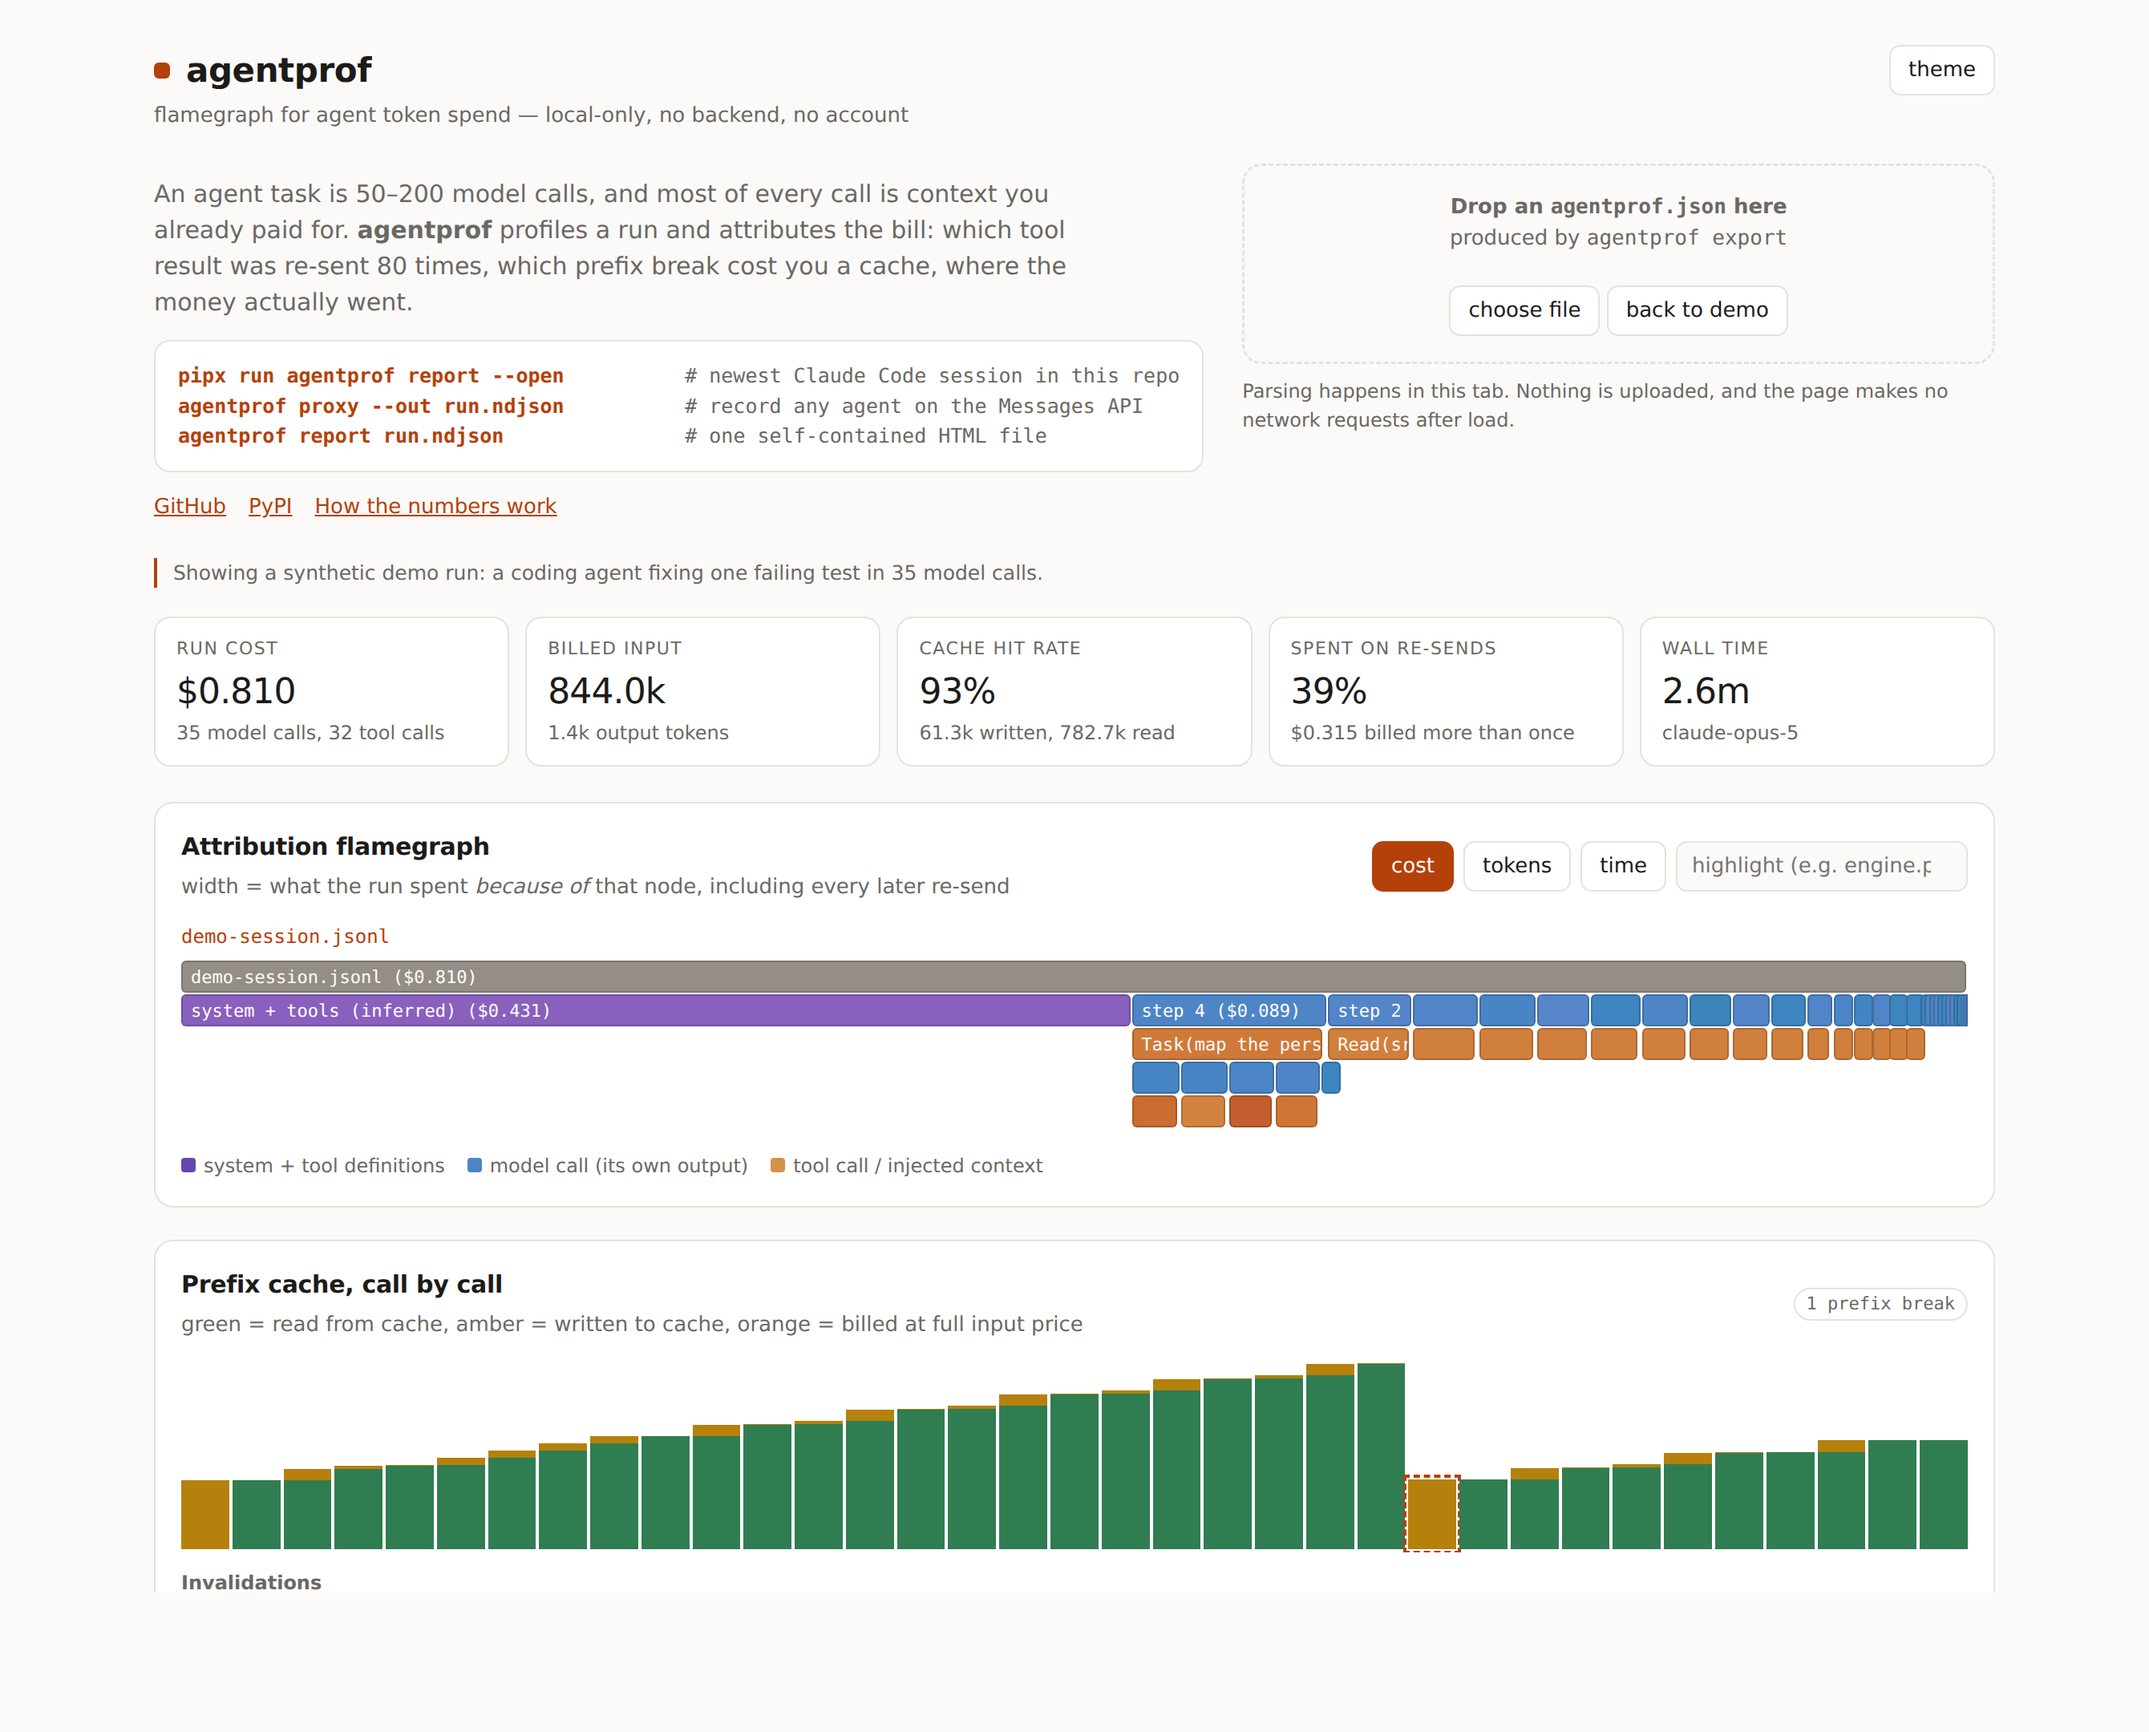
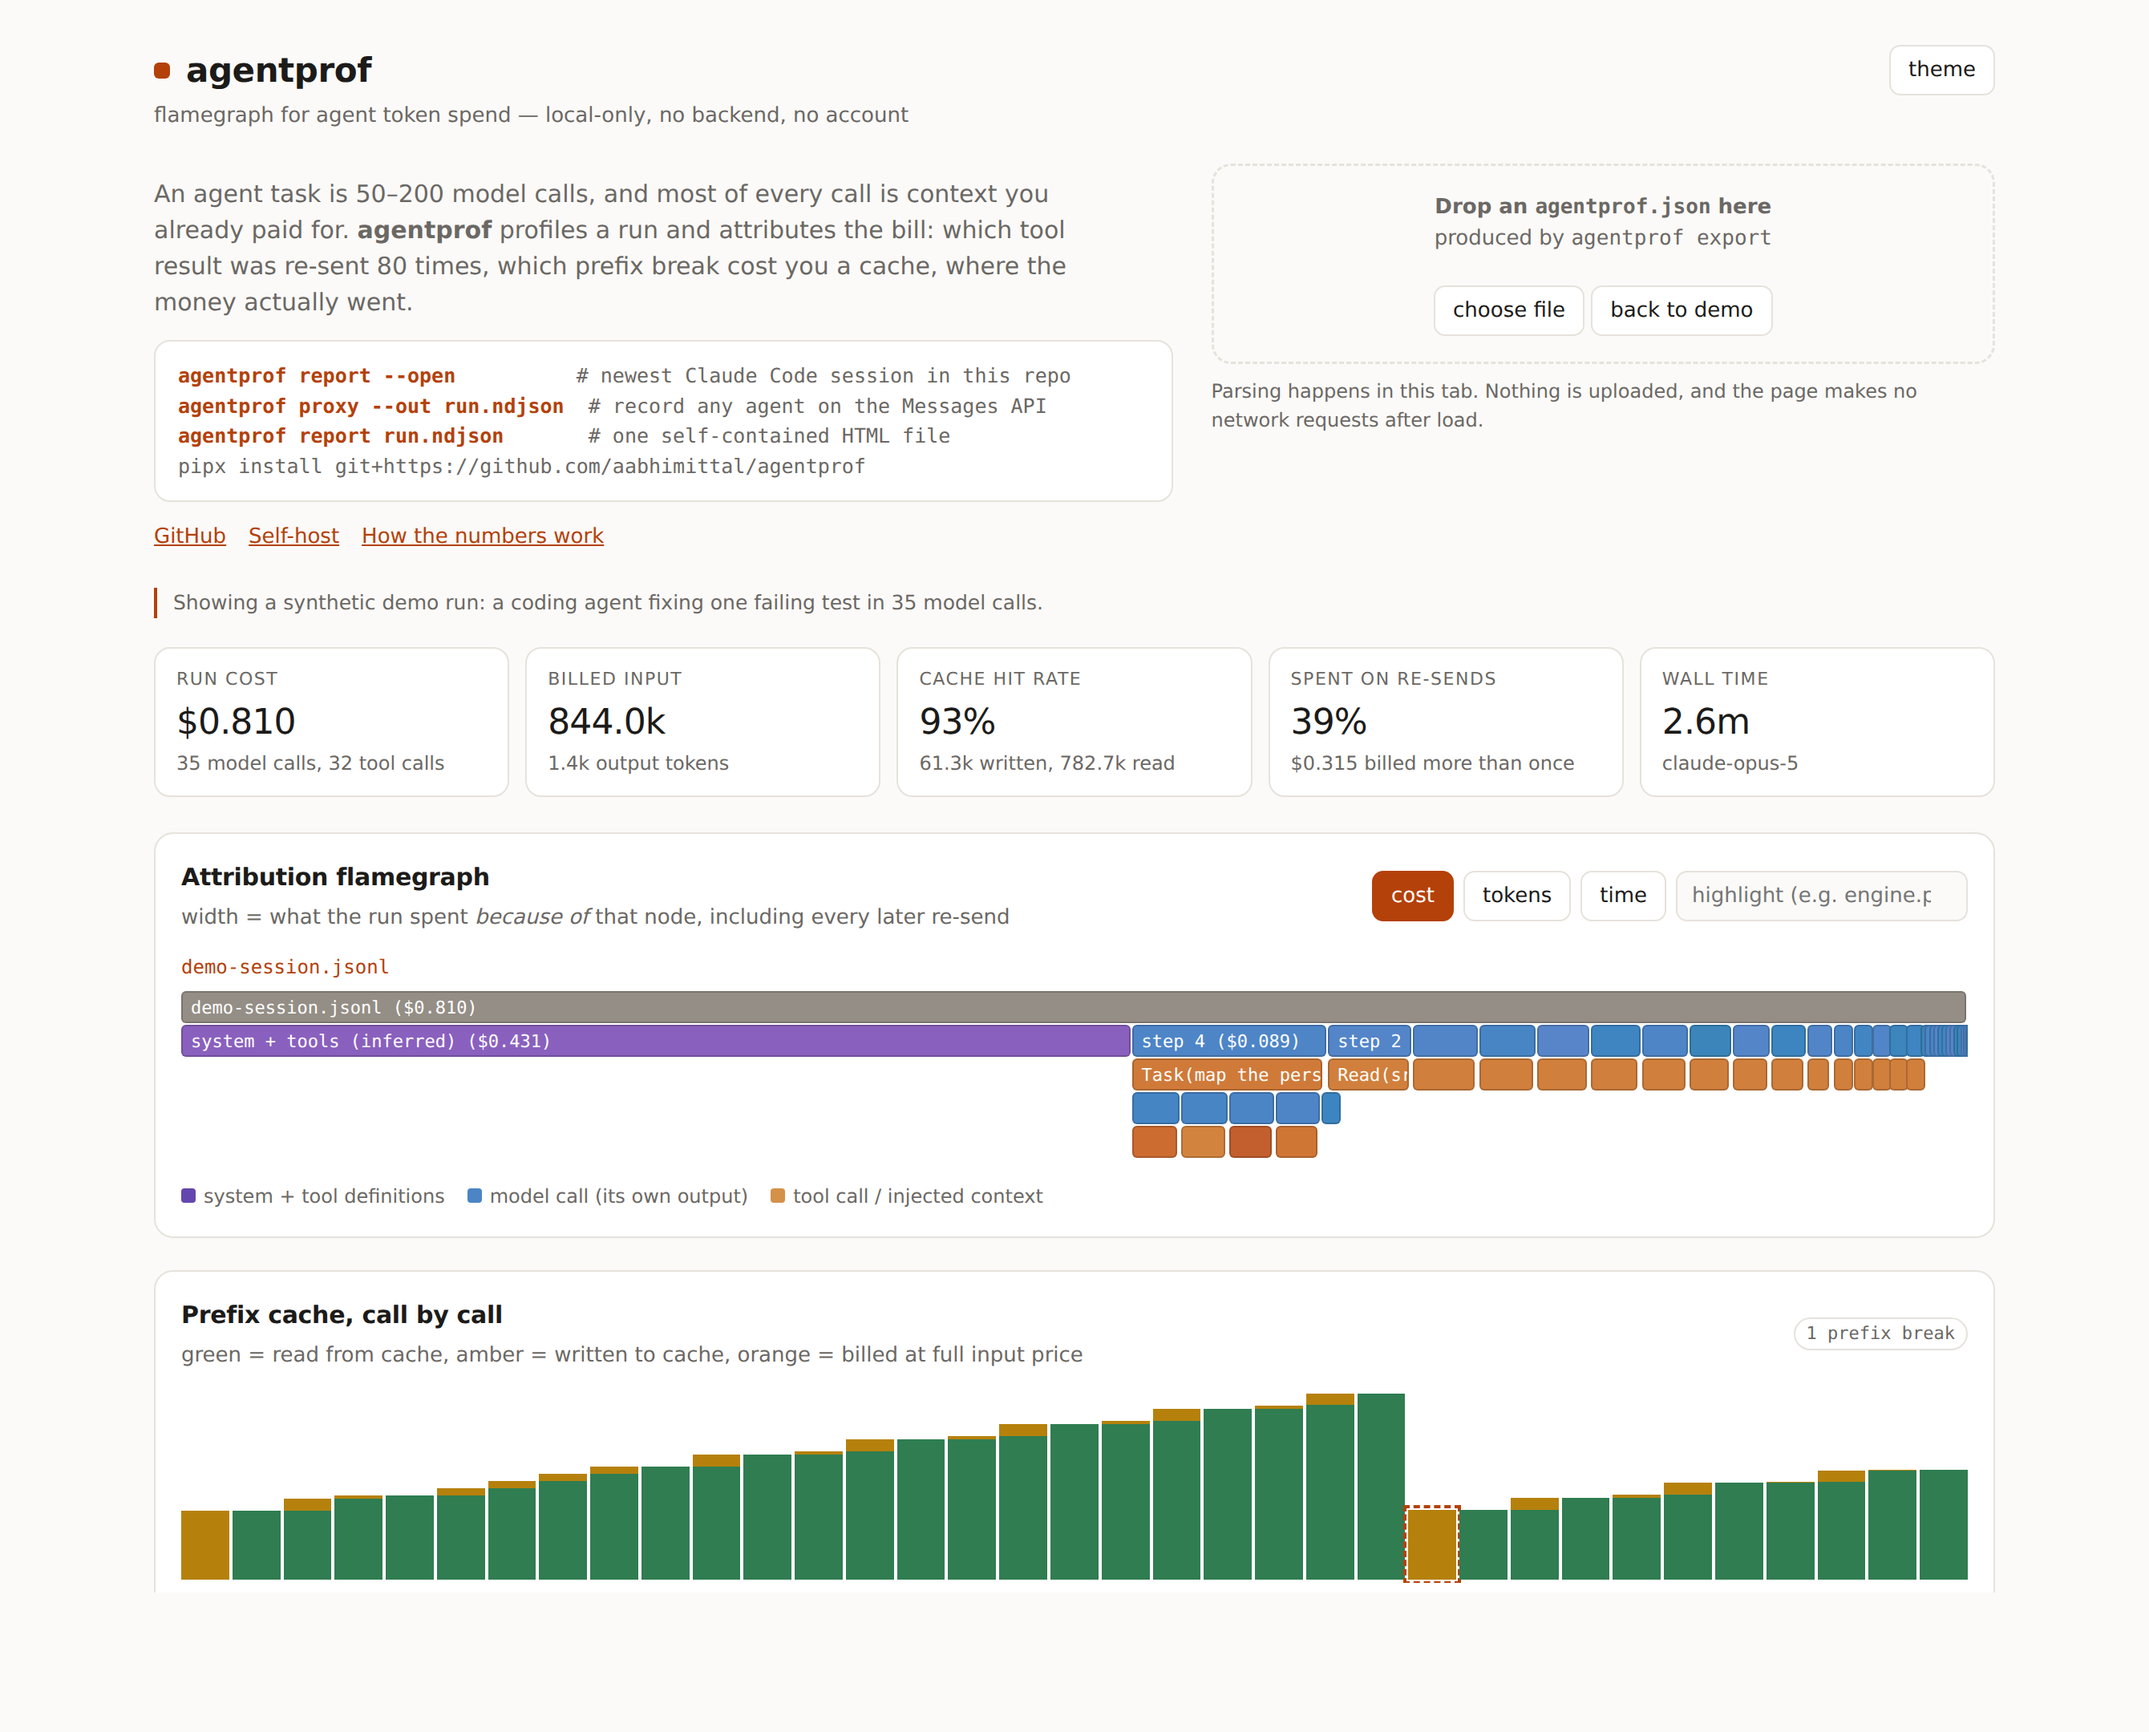
Add deploy guide and release workflow; correct install instructions
- docs/DEPLOY.md: the one manual step each target needs (Pages source, Vercel
  import, HF_TOKEN secret) plus a by-hand Space upload path.
- release.yml: build and publish to PyPI on a version tag via trusted publishing.
- README and the web page pointed at a git install, since nothing is on PyPI yet.

Claude-Session: https://claude.ai/code/session_01TeRrcoBm7TQv35Pw7yG2QA

diff --git a/web/index.html b/web/index.html
@@ -38,12 +38,13 @@
       <p>An agent task is 50&ndash;200 model calls, and most of every call is context you already paid for.
       <strong>agentprof</strong> profiles a run and attributes the bill: which tool result was re-sent 80 times,
       which prefix break cost you a cache, where the money actually went.</p>
-      <pre class="cmd"><b>pipx run agentprof report --open</b>          <span style="color:var(--muted)"># newest Claude Code session in this repo</span>
-<b>agentprof proxy --out run.ndjson</b>          <span style="color:var(--muted)"># record any agent on the Messages API</span>
-<b>agentprof report run.ndjson</b>               <span style="color:var(--muted)"># one self-contained HTML file</span></pre>
+      <pre class="cmd"><b>agentprof report --open</b>          <span style="color:var(--muted)"># newest Claude Code session in this repo</span>
+<b>agentprof proxy --out run.ndjson</b>  <span style="color:var(--muted)"># record any agent on the Messages API</span>
+<b>agentprof report run.ndjson</b>       <span style="color:var(--muted)"># one self-contained HTML file</span>
+<span style="color:var(--muted)">pipx install git+https://github.com/aabhimittal/agentprof</span></pre>
       <div class="links">
         <a href="https://github.com/aabhimittal/agentprof">GitHub</a>
-        <a href="https://pypi.org/project/agentprof/">PyPI</a>
+        <a href="https://github.com/aabhimittal/agentprof/blob/main/docs/DEPLOY.md">Self-host</a>
         <a href="https://github.com/aabhimittal/agentprof#how-the-numbers-are-computed">How the numbers work</a>
       </div>
     </div>

diff --git a/docs/DEPLOY.md b/docs/DEPLOY.md
@@ -1,0 +1,53 @@
+# Deploying the viewer
+
+The site is static: `python3 tools/build_site.py` writes `site/` (index.html, core.js, core.css,
+demo.json, report.html). Every target below serves that directory. Each needs one manual step the
+repo cannot do for you.
+
+## GitHub Pages — `https://aabhimittal.github.io/agentprof/`
+
+1. Merge this branch to `main`.
+2. **Settings → Pages → Build and deployment → Source: GitHub Actions.** (Required once; the
+   workflow cannot enable Pages on its own.)
+3. `.github/workflows/pages.yml` then builds and deploys on every push to `main`, and can be
+   re-run by hand from the Actions tab.
+
+## Vercel — `https://agentprof.vercel.app`
+
+1. vercel.com → **Add New → Project → Import** `aabhimittal/agentprof`.
+2. Accept the defaults: `vercel.json` already sets the build command
+   (`python3 tools/build_site.py`) and output directory (`site`). No environment variables, no
+   install step — the project has no dependencies.
+3. Optional: set the production domain to `agentprof.vercel.app` under Settings → Domains.
+
+Nothing in the build touches the network, so the Vercel build works on the free tier with the
+default Python-capable image.
+
+## Hugging Face Space — `https://huggingface.co/spaces/<you>/agentprof`
+
+Either push from CI or once by hand.
+
+**From CI:** add a write-scoped token as the repository secret `HF_TOKEN`
+(Settings → Secrets and variables → Actions). Optionally set the repository variable `HF_SPACE` to
+`owner/name` if it is not `abhimittal/agentprof`. `.github/workflows/hf-space.yml` creates the
+Space if it is missing and uploads `site/` on every push to `main`; without the secret it skips.
+
+**By hand:**
+
+```bash
+pip install huggingface_hub
+python3 tools/build_site.py
+cp web/space-README.md site/README.md      # the Space card: sdk: static, app_file: index.html
+huggingface-cli upload <you>/agentprof site . --repo-type=space
+```
+
+## Checking a build before you ship it
+
+```bash
+python3 tools/build_site.py
+python3 -m http.server -d site 8000        # http://localhost:8000
+```
+
+`demo.json` is fetched at load, so the page needs to be served over HTTP — opening `site/index.html`
+straight off the filesystem will show the demo-load error. A CLI-generated report
+(`agentprof report`) has no such restriction: it is one file with everything inlined.

diff --git a/README.md b/README.md
@@ -26,16 +26,10 @@ Existing observability tools (Langfuse and friends) answer *what happened*. agen
 ## Quickstart
 
 ```bash
-pipx run agentprof report --open       # profiles the newest Claude Code session for this directory
-```
+pipx install git+https://github.com/aabhimittal/agentprof    # PyPI release pending
 
-or install it:
-
-```bash
-pip install agentprof
-
-agentprof summary                      # numbers in the terminal
-agentprof report -o report.html        # self-contained HTML report
+agentprof report --open                # profiles the newest Claude Code session for this directory
+agentprof summary                      # the same numbers, in the terminal
 agentprof export -o agentprof.json     # profile JSON for the web viewer
 ```
 
@@ -148,6 +142,8 @@ python3 -m http.server -d site  # http://localhost:8000
 - **GitHub Pages** — `.github/workflows/pages.yml` builds and deploys on push to `main`
   (enable Pages → *Source: GitHub Actions* once, in repository settings).
 - **Vercel** — `vercel.json` is committed; import the repo, no configuration needed.
+
+Step-by-step, including what each target needs you to click once: [docs/DEPLOY.md](docs/DEPLOY.md).
 - **Hugging Face Space** — `.github/workflows/hf-space.yml` pushes `site/` to a static Space when an
   `HF_TOKEN` secret is present.
 
@@ -160,7 +156,7 @@ python3 tools/shots.py          # regenerate docs/images with headless Chromium
 ```
 
 No runtime dependencies, Python 3.9+, stdlib only — that is a deliberate constraint, so that
-`pipx run agentprof` is always faster than reading the docs.
+installing agentprof is always faster than reading its docs.
 
 ## License
 
